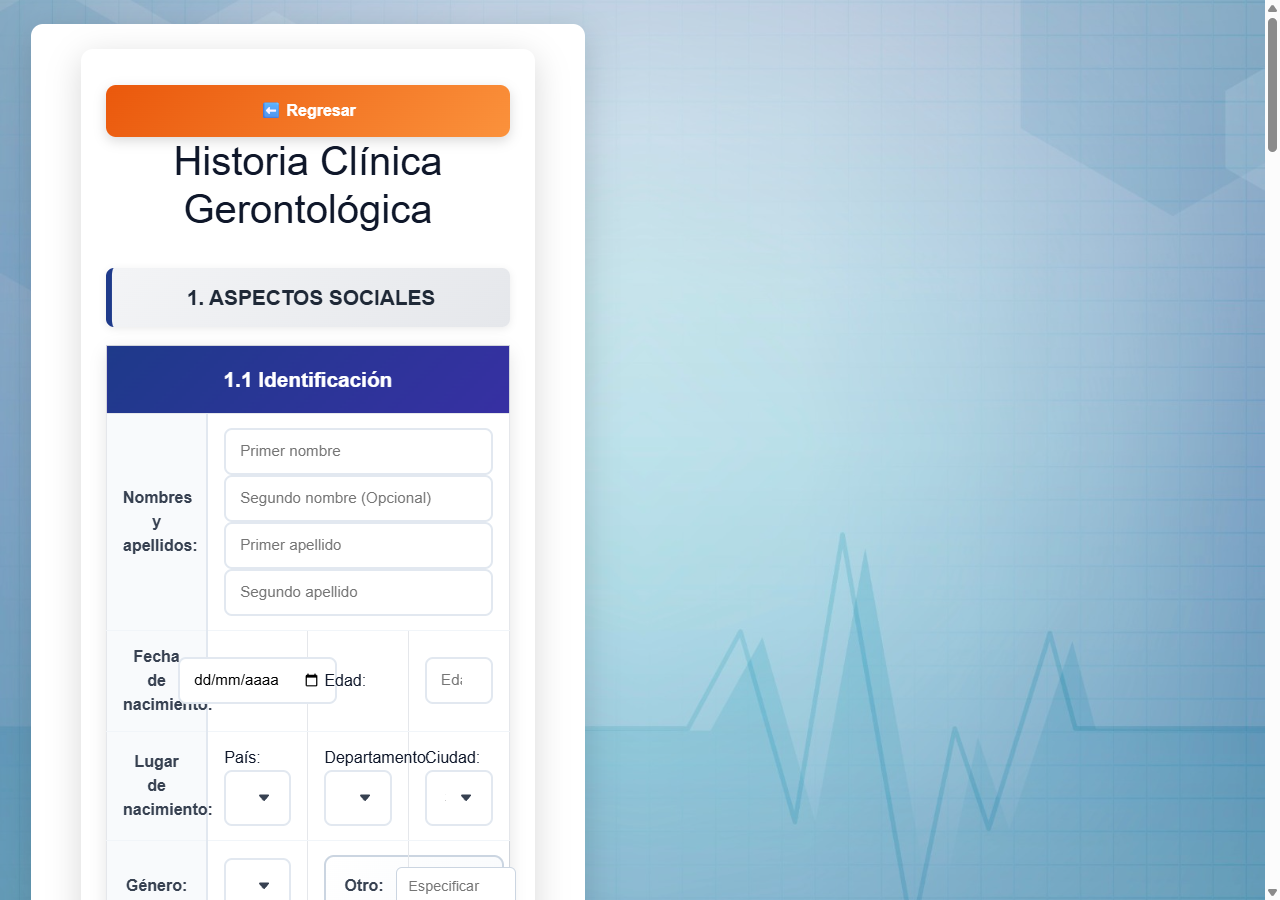
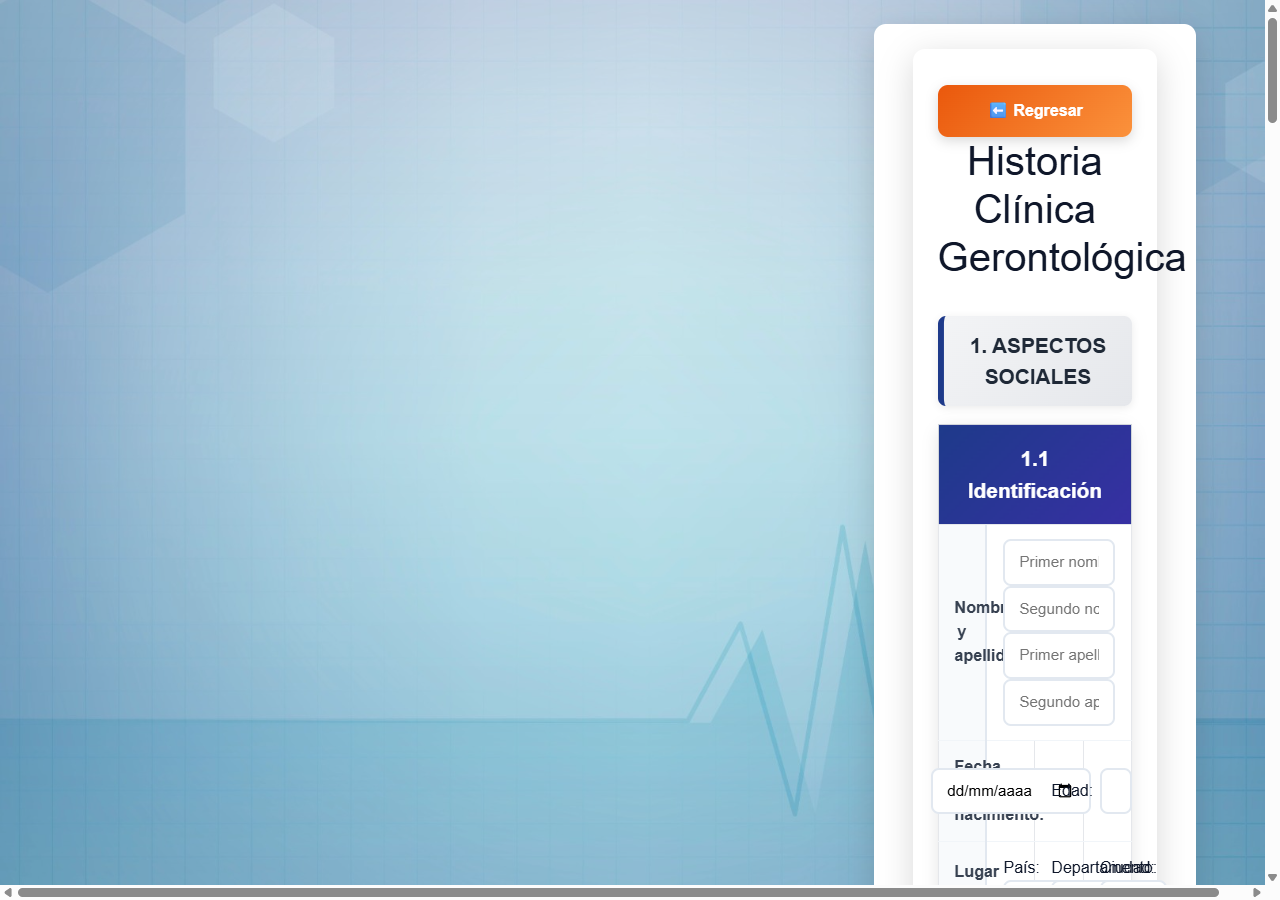
refactor(layout): apply professional nav policy (public pages without module bar, internal pages keep it)

diff --git a/myapp/templates/evolucion_enfermeria.html b/myapp/templates/evolucion_enfermeria.html
@@ -12,8 +12,6 @@
     <div class="text-white">Evolución de Enfermería</div>
 {% endblock %}
 
-{% block body_class %}no-module-topbar{% endblock %}
-
 {% block module_actions %}
     <a href="{% url 'enfermeria' %}" class="btn btn-outline-light btn-sm me-2"><i class="fas fa-arrow-left"></i> Volver</a>
     <a href="{% url 'logout' %}" class="btn btn-danger btn-sm"><i class="fas fa-sign-out-alt"></i> Cerrar Sesión</a>

diff --git a/myapp/templates/pdf_paciente.html b/myapp/templates/pdf_paciente.html
@@ -36,8 +36,6 @@
     <div class="text-white">Historia Clínica — {{ paciente.primer_nombre }} {{ paciente.primer_apellido }}</div>
 {% endblock %}
 
-{% block body_class %}no-module-topbar{% endblock %}
-
 {% block content %}
 <div class="print-bar">
     <span>📋 Historia Clínica — {{ paciente.primer_nombre }} {{ paciente.primer_apellido }}</span>

diff --git a/myapp/templates/historia_gerontologica.html b/myapp/templates/historia_gerontologica.html
@@ -12,8 +12,6 @@
     <div class="text-white">Historia Clínica Gerontológica</div>
 {% endblock %}
 
-{% block body_class %}no-module-topbar{% endblock %}
-
 {% block content %}
 <form id="historia_gerontologica_form" method="post" action="{% url 'historia_gerontologica' %}" data-cache="true" data-cache-interval="2000">
     {% csrf_token %}

diff --git a/myapp/templates/Dashboards.html b/myapp/templates/Dashboards.html
@@ -12,8 +12,6 @@
     <div class="text-white">Dashboard</div>
 {% endblock %}
 
-{% block body_class %}no-module-topbar{% endblock %}
-
 {% block content %}
     <div class="row">
         <div class="col-12 mb-3 d-flex justify-content-between align-items-center">

diff --git a/myapp/templates/formulario_usuario.html b/myapp/templates/formulario_usuario.html
@@ -13,8 +13,6 @@
   <div class="text-white">{% if create %}Crear Usuario{% else %}Editar Usuario{% endif %}</div>
 {% endblock %}
 
-{% block body_class %}no-module-topbar{% endblock %}
-
 {% block content %}
   <div class="container">
     {% if messages %}

diff --git a/myapp/templates/perfil_paciente.html b/myapp/templates/perfil_paciente.html
@@ -23,8 +23,6 @@
     <div class="text-white">Historial del Paciente</div>
 {% endblock %}
 
-{% block body_class %}no-module-topbar{% endblock %}
-
 {% block content %}
     <div class="container">
         <h1 class="main-title">HISTORIAL DEL PACIENTE</h1>

diff --git a/myapp/templates/lista_Empleados.html b/myapp/templates/lista_Empleados.html
@@ -12,8 +12,6 @@
 	<div class="text-white">Gestión de Empleados</div>
 {% endblock %}
 
-{% block body_class %}no-module-topbar{% endblock %}
-
 {% block content %}
 	<div class="container">
 		<h1 class="main-title">Gestión de Empleados</h1>

diff --git a/myapp/templates/kardes.html b/myapp/templates/kardes.html
@@ -11,8 +11,6 @@
     <div class="text-white">Ficha del Paciente</div>
 {% endblock %}
 
-{% block body_class %}no-module-topbar{% endblock %}
-
 {% block content %}
 <div class="container py-4">
     <h1 class="mb-4">Ficha del Paciente</h1>

diff --git a/myapp/templates/confirmar_borrado_usuario.html b/myapp/templates/confirmar_borrado_usuario.html
@@ -7,8 +7,6 @@
   <div class="text-white">Confirmar Borrado</div>
 {% endblock %}
 
-{% block body_class %}no-module-topbar{% endblock %}
-
 {% block content %}
   <div class="container py-4">
     <h1>Confirmar borrado de usuario</h1>

diff --git a/myapp/templates/fonoaudiologia.html b/myapp/templates/fonoaudiologia.html
@@ -6,8 +6,6 @@
     <div class="text-white">Módulo Fonoaudiología</div>
 {% endblock %}
 
-{% block body_class %}no-module-topbar{% endblock %}
-
 {% block content %}
 <div class="py-3">
     <h1>Módulo Fonoaudiología</h1>

diff --git a/myapp/templates/fisioterapia.html b/myapp/templates/fisioterapia.html
@@ -6,8 +6,6 @@
     <div class="text-white">Módulo Fisioterapia</div>
 {% endblock %}
 
-{% block body_class %}no-module-topbar{% endblock %}
-
 {% block content %}
 <div class="py-3">
     <h1>Módulo Fisioterapia</h1>

diff --git a/myapp/templates/paciente_registro.html b/myapp/templates/paciente_registro.html
@@ -12,8 +12,6 @@
     <div class="text-white">Registro de Paciente</div>
 {% endblock %}
 
-{% block body_class %}no-module-topbar{% endblock %}
-
 {% block content %}
     <div class="container">
         <header>
